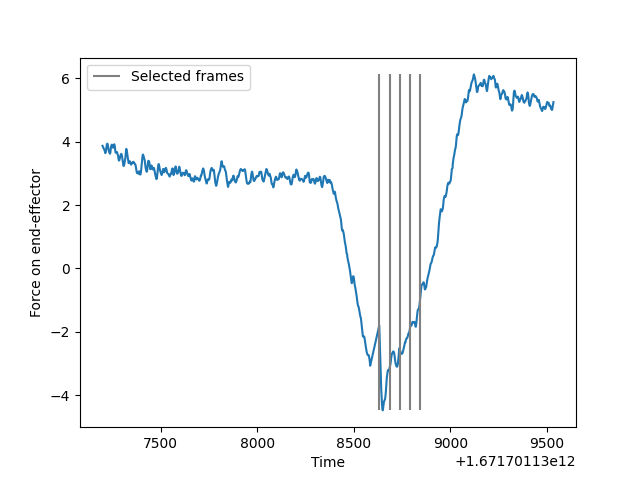
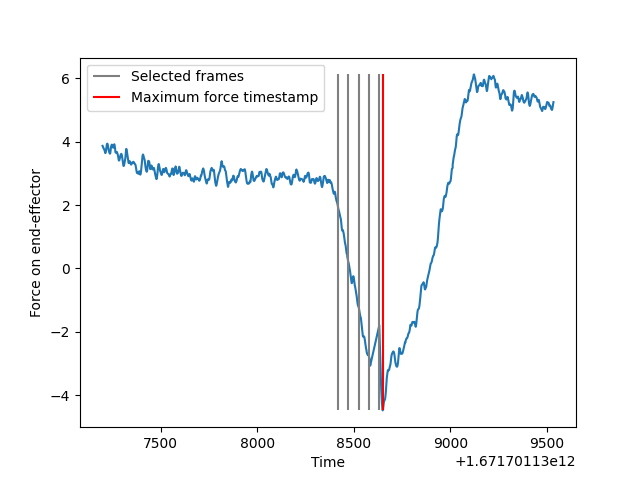
Naive frame selection

Changed region(s): [[0.5938, 0.1562, 0.6562, 0.8438], [0.125, 0.1562, 0.5625, 0.8438]]

diff --git a/hardness_classification/preprocessing.py b/hardness_classification/preprocessing.py
@@ -32,20 +32,24 @@ class DatasetManager():
 
         first_deformation_index = np.argmax(distances > epsilon)
         max_deformation_index = np.argmax(distances)
+        max_force_timestamp = forces[np.argmin(forces[:, 1]), 0]
+        max_force_index = np.argmin(np.absolute(times - max_force_timestamp))
 
         # time_span = max_deformation_index - first_deformation_index
-        indizes = [max_deformation_index - i for i in range(k)]
+        indizes = [max_force_index - i for i in range(k)]
         # indizes = [int(np.round(first_deformation_index + i *time_span/(k-1))) for i in range(k)]
 
         if VISUALIZE_FRAME_SELECTION:
             selected_frame_timestamps = times[indizes]
             plt.plot(forces[:, 0], forces[:, 1])
             plt.vlines(selected_frame_timestamps, np.min(forces[:, 1]), np.max(forces[:, 1]), "grey", label="Selected frames")
+            plt.vlines(max_force_timestamp, np.min(forces[:, 1]), np.max(forces[:, 1]), "red", label="Maximum force timestamp")
             # plt.vlines(times[first_deformation_index], np.min(forces[:, 1]), np.max(forces[:, 1]), "green", label="First detected deformation")
             # plt.vlines(times[max_deformation_index], np.min(forces[:, 1]), np.max(forces[:, 1]), "red", label="Maximum detected deformation")
             plt.xlabel("Time")
             plt.ylabel("Force on end-effector")
             plt.legend()
+            # plt.show()
             plt.savefig(join(id))
             plt.cla()
             # input("Press Enter to continue...")
